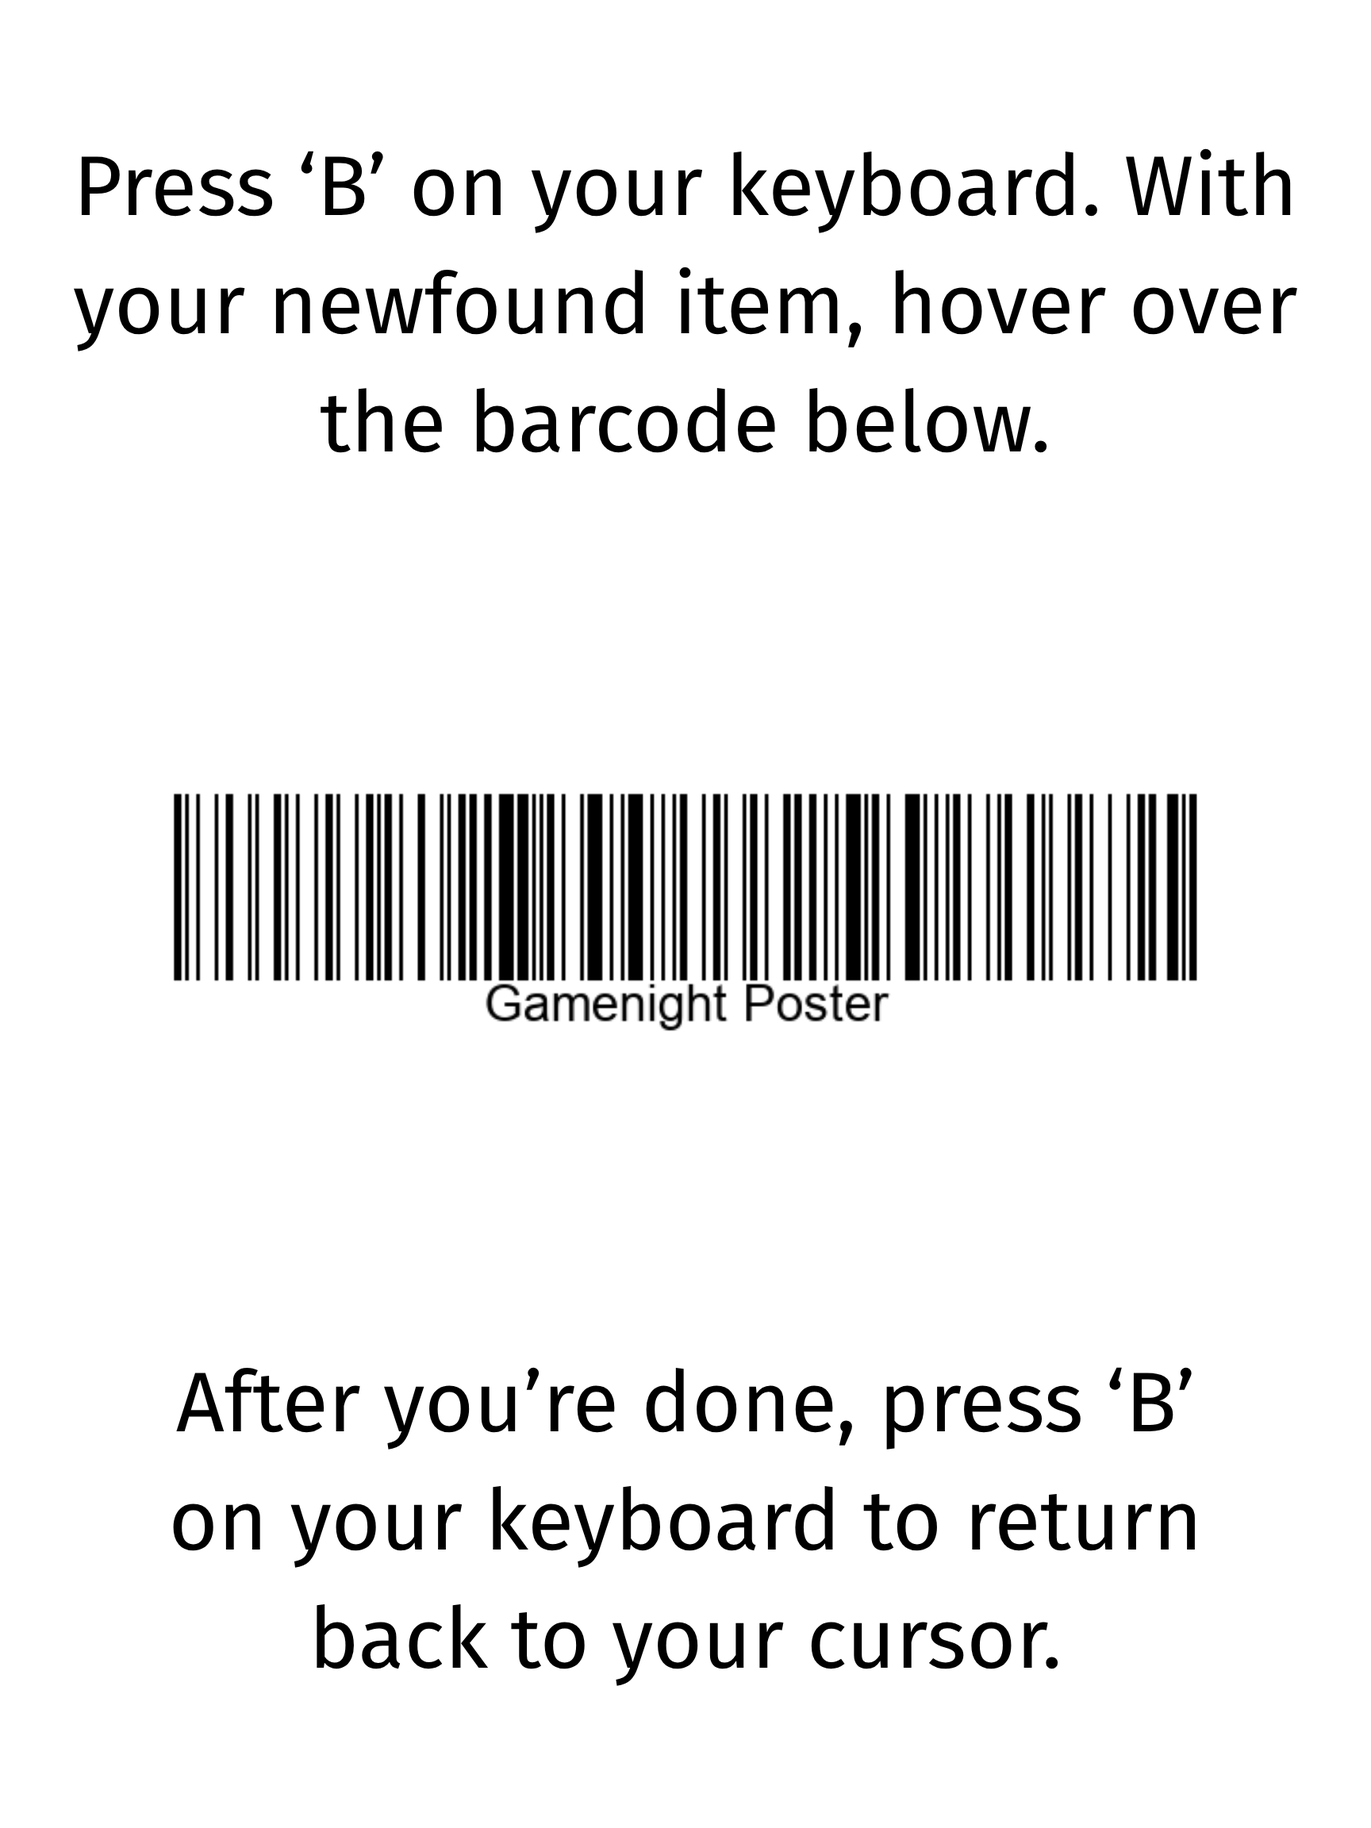
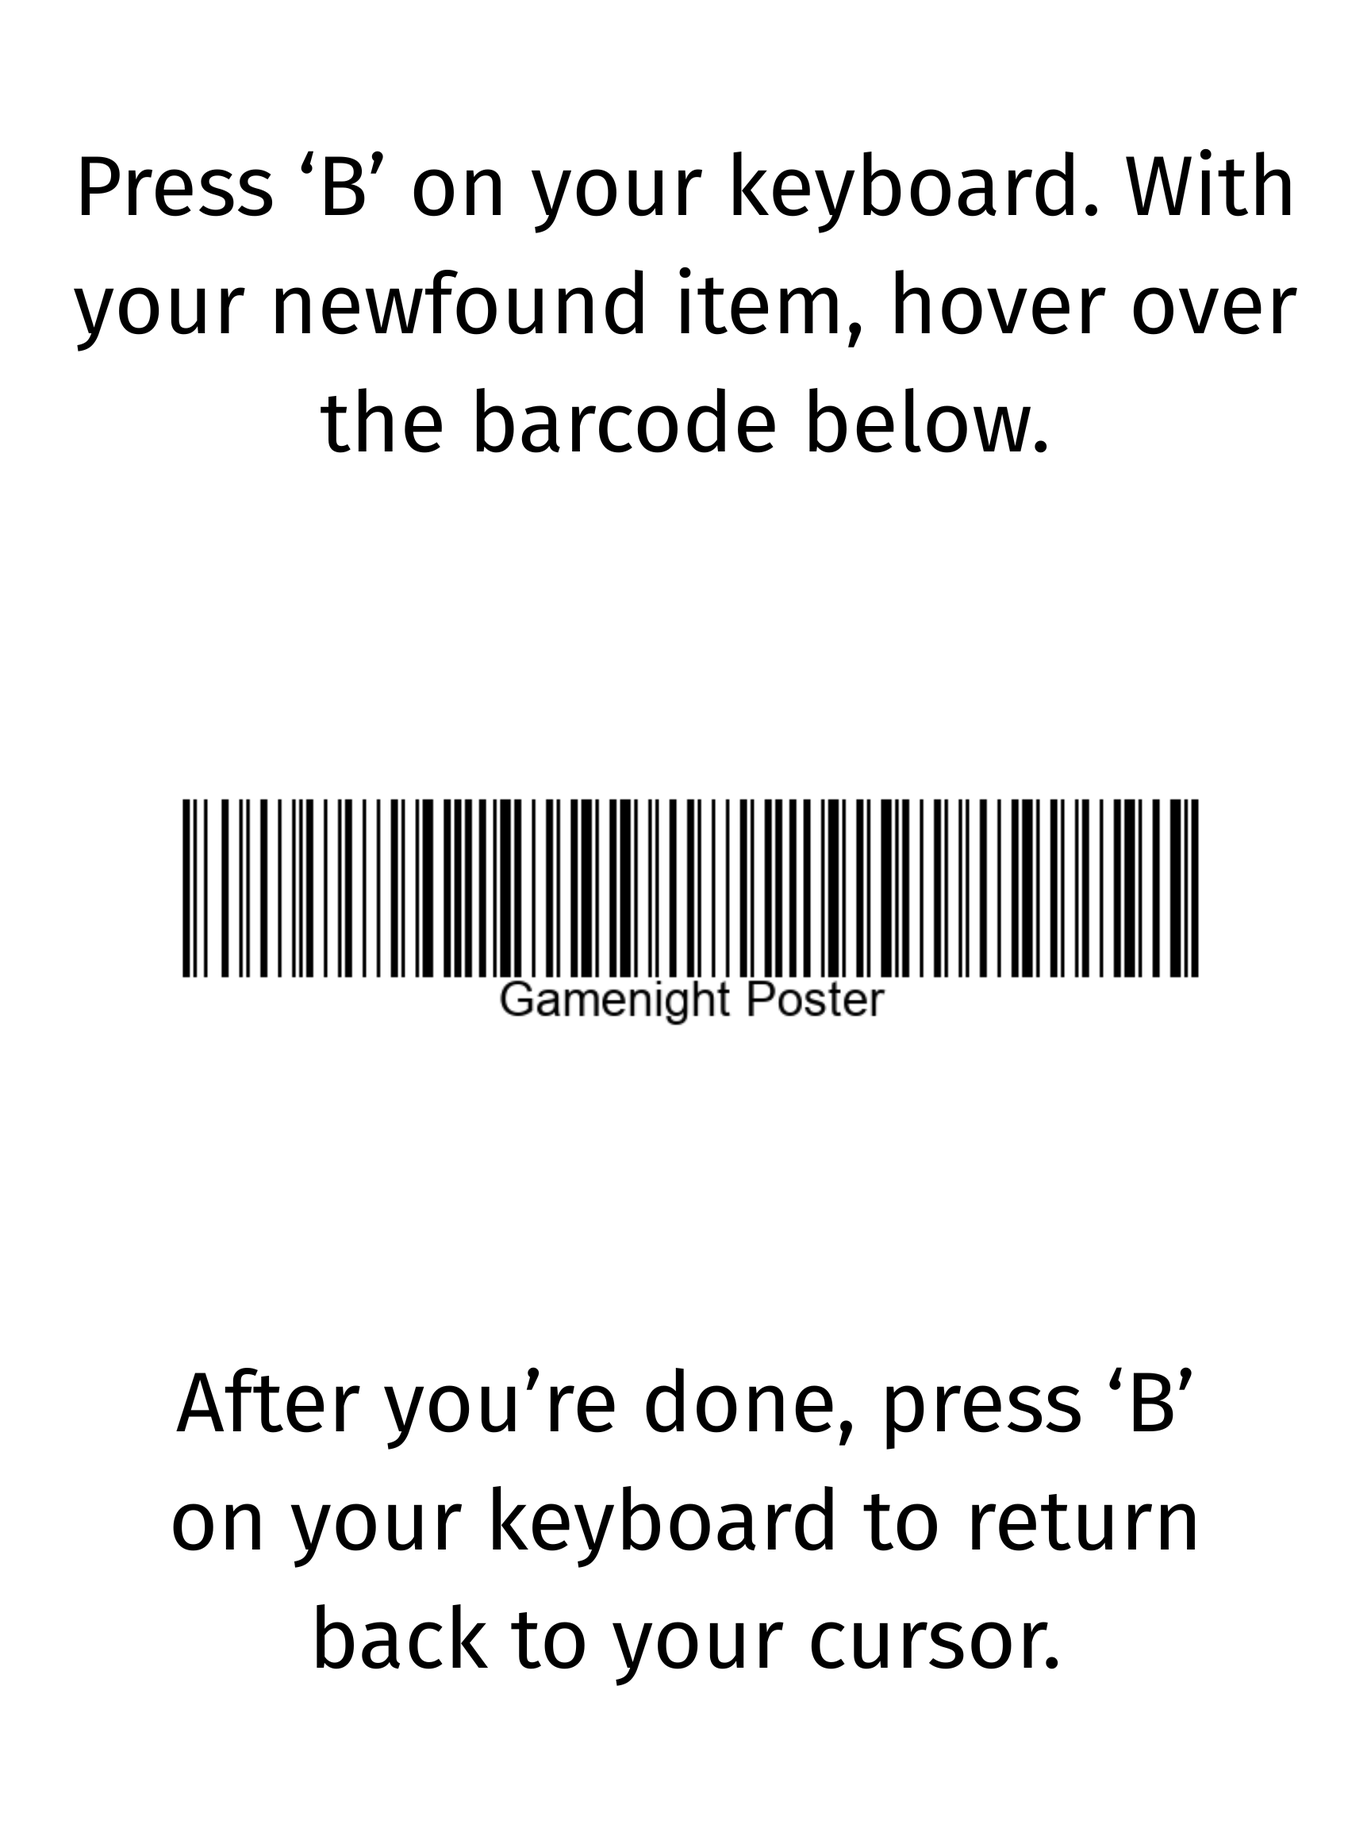
barcodes done

Changed region(s): [[0.125, 0.4375, 0.875, 0.5625]]

diff --git a/EscapeRoom/Game1.cs b/EscapeRoom/Game1.cs
@@ -2,6 +2,7 @@
 using Microsoft.Xna.Framework.Graphics;
 using Microsoft.Xna.Framework.Input;
 using System;
+using System.Diagnostics;
 using System.Runtime.CompilerServices;
 
 namespace EscapeRoom
@@ -41,6 +42,7 @@ namespace EscapeRoom
         Texture2D leftClickTexture, solveTexture;
         Rectangle leftClickRect, solveRect;
         bool backGame;
+        bool gameSpecial; // just to fill the method LOL
 
         // LIGHTS OUT & NONOGRAM
         Texture2D rectTexture, xTexture, backTexture;
@@ -51,7 +53,6 @@ namespace EscapeRoom
         // LIGHTS ON
         Texture2D sunPosterFront, todayPosterFront, alertPosterFront, bdayPosterFront; // front textures
         Texture2D sunPosterBack, todayPosterBack, alertPosterBack, bdayPosterBack; // back textures
-        Texture2D wallpaperTexture; // wallpaper background 
         Texture2D bulbOnTexture, bulbBrokenTexture;
         Rectangle sunRect, todayRect, alertRect, bdayRect, maxPosterRect;
         Rectangle bulbRect, bulbOnRect;
@@ -85,7 +86,7 @@ namespace EscapeRoom
         Rectangle gameBarcode; // tutorial
         Rectangle sunBarcode, todayBarcode, alertBarcode, bdayBarcode; // day posters
         Rectangle moonBarcode, yesterdayBarcode, barcodeBarcode, canadaBarcode; // night posters
-        Rectangle chestBarcode, tomorrowBarcode, scannerBarcode; // special posters
+        Rectangle chestBarcode, tomorrowBarcode, scannerBarcodeFront, scannerBarcodeBack; // special posters
         float barcodeTimer, barcodeStop; // barcodeTimer counts up, barcodeStop stops showing the text after 4s.
         string barcodeText;
         bool showBarcodeText;
@@ -113,7 +114,6 @@ namespace EscapeRoom
 
         Random generator;
         int puzzle; // puzzles
-        bool loDone, noDone;
 
         public Game1()
         {
@@ -134,7 +134,7 @@ namespace EscapeRoom
             screen = Screen.Intro;
             puzzle = 0; // zero puzzle = original window
             generator = new Random();
-            lightsToggle = false;
+            lightsToggle = true;
             tardisActivated = false;
 
             // intro screen
@@ -149,6 +149,7 @@ namespace EscapeRoom
             leftClickRect = new Rectangle(123, 140, 237, 220);
             solveRect = new Rectangle(-11, 140, 230, 220);
             backGame = false;
+            gameSpecial = false;
 
             // LIGHTS OUT
             lightsBack = new Rectangle(225, 70, 300, 300);
@@ -187,11 +188,21 @@ namespace EscapeRoom
             scannerRect = new Rectangle(mouseState.X, mouseState.Y, 45, 45);
 
             // BARCODE
+            gameBarcode = new Rectangle(259, 215, 283, 54);
             sunBarcode = new Rectangle(259, 395, 121, 66);
+            moonBarcode = new Rectangle(305, 399, 191, 47);
+            chestBarcode = new Rectangle(261, 381, 280, 62);
+            todayBarcode = new Rectangle(260, 397, 116, 48);
+            yesterdayBarcode = new Rectangle(264, 356, 273, 74);
+            tomorrowBarcode = new Rectangle(318, 369, 166, 69);
+            alertBarcode = new Rectangle(311, 387, 179, 56);
+            barcodeBarcode = new Rectangle(277, 229, 247, 70);
+            scannerBarcodeFront = new Rectangle(367, 397, 59, 46);
+            scannerBarcodeBack = new Rectangle(262, 370, 277, 68);
+            bdayBarcode = new Rectangle(285, 382, 231, 59);
+            canadaBarcode = new Rectangle(259, 383, 279, 57);
             barcodeTimer = 0f; barcodeStop = 4f;
-            showBarcodeText = false;
-
-
+            //showBarcodeText = false;
 
             // lock SCREEN
             plusBtn1 = new Rectangle(68, 88, 80, 80);
@@ -246,13 +257,7 @@ namespace EscapeRoom
             }
             cellGrid.DebugSolution();
 
-            // boolean variables to decide if something is complete
-            loDone = false; // lights out
-            noDone = false; // nonogram
-
         }
-
-
 
         protected override void LoadContent()
         {
@@ -347,7 +352,14 @@ namespace EscapeRoom
                 Exit();
 
             if (showBarcodeText)
+            {
                 barcodeTimer += (float)gameTime.ElapsedGameTime.TotalSeconds;
+                if (barcodeTimer > barcodeStop)
+                {
+                    barcodeTimer = 0f;
+                    showBarcodeText = false;
+                }
+            }
 
             switch (screen) 
             {
@@ -401,6 +413,7 @@ namespace EscapeRoom
                             ResetMouseCursor(gameRect);
                             BackButton();
                             backGame = BackToggle(maxPosterRect, backGame);
+                            BarcodeScanner(gameBarcode, backGame, gameSpecial);
                             break;
                     }
                     break;
@@ -458,10 +471,18 @@ namespace EscapeRoom
                             break;
                         case 3: // sun poster
                             ResetMouseCursor(sunRect);
-                            BackButton();
+                            if (!screwdriver)
+                                BackButton();
+                            else
+                                BackButton(4);
                             bulbAppear = true;
                             backSun = BackToggle(maxPosterRect, backSun);
-                            BarcodeScanner(sunBarcode, moonBarcode, backSun, sunDisappear);
+                            if (lights)
+                                BarcodeScanner(sunBarcode, backSun, !sunDisappear);
+                            else
+                                BarcodeScanner(moonBarcode, backSun, !sunDisappear);
+                            if (lights || !lights)
+                                BarcodeScanner(chestBarcode, backSun, sunDisappear);
                             if (lights && !backSun && !sunDisappear)
                             {
                                 if (keyboardState.IsKeyDown(Keys.LeftShift) && keyboardState.IsKeyDown(Keys.LeftControl) 
@@ -471,7 +492,7 @@ namespace EscapeRoom
                                         sunDisappear = true;
                                 }
                             }
-                            if (sunDisappear && keyCollected && !screwdriver)
+                            if (sunDisappear && keyCollected && tomorrowToggle && !backSun && !screwdriver)
                             {
                                 if (mouseState.LeftButton == ButtonState.Pressed && prevMouseState.LeftButton == ButtonState.Released)
                                 {
@@ -489,6 +510,13 @@ namespace EscapeRoom
                             Mouse.SetCursor(MouseCursor.Arrow);
                             BackButton();
                             backToday = BackToggle(maxPosterRect, backToday);
+                            if (lights)
+                            {
+                                BarcodeScanner(todayBarcode, backToday, !tomorrowToggle);
+                                BarcodeScanner(tomorrowBarcode, backToday, tomorrowToggle);
+                            }
+                            else
+                                BarcodeScanner(yesterdayBarcode, backToday, !tomorrowToggle);
                             if (lights && !backToday)
                             {
                                 if (keyboardState.IsKeyDown(Keys.LeftControl) && (keyboardState.IsKeyDown(Keys.K) && prevKeyboardState.IsKeyUp(Keys.K)))
@@ -509,6 +537,14 @@ namespace EscapeRoom
                             Mouse.SetCursor(MouseCursor.Arrow);
                             BackButton();
                             backAlert = BackToggle(maxPosterRect, backAlert);
+                            if (lights)
+                                BarcodeScanner(alertBarcode, backAlert, !warningClick);
+                            else
+                            {
+                                BarcodeScanner(barcodeBarcode, !backAlert, !warningClick);
+                                BarcodeScanner(scannerBarcodeFront, !backAlert, warningClick);
+                                BarcodeScanner(scannerBarcodeBack, backAlert, warningClick);
+                            }
                             if (!lights && !backAlert && !warningClick)
                             {
                                 if (mouseState.LeftButton == ButtonState.Pressed && prevMouseState.LeftButton == ButtonState.Released)
@@ -539,11 +575,15 @@ namespace EscapeRoom
                             Mouse.SetCursor(MouseCursor.Arrow);
                             BackButton();
                             backBday = BackToggle(maxPosterRect, backBday);
-                            if (buttonClicked && !backBday && lights)
+                            if (lights)
+                                BarcodeScanner(bdayBarcode, backBday, !buttonClicked);
+                            else
+                                BarcodeScanner(canadaBarcode, backBday, !buttonClicked);
+                            if (buttonClicked && sunDisappear && !backBday && lights)
                             {
                                 SetMouseCursor(lockBtn);
                                 ResetMouseCursor(lockBtn);
-                                if (mouseState.LeftButton == ButtonState.Pressed && mouseState.RightButton == ButtonState.Released)
+                                if (mouseState.LeftButton == ButtonState.Pressed && prevMouseState.LeftButton == ButtonState.Released)
                                 {
                                     if (lockBtn.Contains(mouseState.Position))
                                         puzzle = 7;
@@ -552,7 +592,7 @@ namespace EscapeRoom
                             break;
                         case 7: // lock
                             Mouse.SetCursor(MouseCursor.Arrow);
-                            BackButton(4);
+                            BackButton(6);
                             if (!code)
                             {
                                 // subtract buttons (individual methods not working)
@@ -631,6 +671,7 @@ namespace EscapeRoom
                             DrawPoster(backGame, gamePosterFront, gamePosterBack, maxPosterRect);
                             if (!backGame)
                                 _spriteBatch.Draw(solveTexture, solveRect, Color.White);
+                            DrawBarcodeText("[HIDDEN MESSAGE REVEALED]", new Vector2(246, 166), backGame);
                             _spriteBatch.Draw(backTexture, backBtn, Color.White);
                             break;
                     }
@@ -713,29 +754,56 @@ namespace EscapeRoom
                             break;
                         case 3: // sun poster
                             if (!sunDisappear)
+                            {
                                 LightsToggle(backSun, sunPosterFront, sunPosterBack, moonPosterFront, moonPosterBack, maxPosterRect);
+                                if (lights)
+                                    DrawBarcodeText("[noburger]", new Vector2(224, 341), backSun); // sun poster
+                                else
+                                    DrawBarcodeText("[No Sun = No Moon]", new Vector2(224, 341), backSun); // moon poster
+                            }
                             else
                             {
                                 LightsToggle(backSun, chestPosterFront, chestPosterBack, chestPosterFront, chestPosterBack, maxPosterRect);
+                                if (lights || !lights)
+                                    DrawBarcodeText("[Shift your keyboard]", new Vector2(257, 341), backSun); // chest poster
                                 if (showScrewdriver)
                                     _spriteBatch.Draw(screwdriverTexture, screwdriverRect, Color.White);
                             }
-                            DrawBarcodeText("[noburger]", "[No Sun = No Moon]", new Vector2(224, 341), backSun, sunDisappear);
                             _spriteBatch.Draw(backTexture, backBtn, Color.White);
                             break;
                         case 4: // today poster
                             if (!tomorrowToggle)
+                            {
                                 LightsToggle(backToday, todayPosterFront, todayPosterBack, yesterdayPosterFront, yesterdayPosterBack, maxPosterRect);
+                                if (lights)
+                                    DrawBarcodeText("[Vigenere]", new Vector2(247, 294), backToday); // today poster
+                            }
                             else
+                            {
                                 LightsToggle(backToday, tomorrowPosterFront, tomorrowPosterBack, yesterdayPosterFront, yesterdayPosterBack, maxPosterRect);
+                                if (lights)
+                                    DrawBarcodeText("[Dr. Who?]", new Vector2(247, 294), backToday); // tomorrow poster
+                            }
+                            if (!lights)
+                                DrawBarcodeText("[Musical Artist]", new Vector2(247, 294), backToday); // yesterday poster
                             _spriteBatch.Draw(backTexture, backBtn, Color.White);
                             break;
                         case 5: // alert poster
                             if (!warningClick)
+                            {
                                 LightsToggle(backAlert, alertPosterFront, alertPosterBack, barcodePosterFront, barcodePosterBack, maxPosterRect);
+                                if (lights && backAlert)
+                                    DrawBarcodeText("[Two Commands]", new Vector2(278, 340), backAlert); // alert poster
+                                if (!lights && !backAlert)
+                                    DrawBarcodeText("[What did I just say]", new Vector2(277, 184), !backAlert); // barcode poster
+                            }
                             else
                             {
                                 LightsToggle(backAlert, alertPosterFront, alertPosterBack, scannerPosterFront, scannerPosterBack, maxPosterRect);
+                                if (!lights && !backAlert)
+                                    DrawBarcodeText("[hi]", new Vector2(437, 407), !backAlert); // scanner poster front
+                                if (!lights && backAlert)
+                                    DrawBarcodeText("[Click it]", new Vector2(279, 461), backAlert); // scanner poster back
                                 if (backAlert && !buttonClicked)
                                 {
                                     _spriteBatch.Draw(scannerBtnTexture, scannerBtn, Color.White);
@@ -746,7 +814,13 @@ namespace EscapeRoom
                             break;
                         case 6: // bday poster
                             if (!lockPoster)
+                            {
                                 LightsToggle(backBday, bdayPosterFront, bdayPosterBack, canadaPosterFront, canadaPosterBack, maxPosterRect);
+                                if (lights)
+                                    DrawBarcodeText("[Button. Canada.]", new Vector2(247, 294), backBday); // bday poster
+                                else
+                                    DrawBarcodeText("[Stay on this screen]", new Vector2(247, 294), backBday); // canada poster
+                            }
                             else
                                 LightsToggle(backBday, lockPosterFront, lockPosterBack, canadaPosterFront, canadaPosterBack, maxPosterRect);
                             _spriteBatch.Draw(backTexture, backBtn, Color.White);
@@ -794,7 +868,10 @@ namespace EscapeRoom
             if (mouseState.LeftButton == ButtonState.Pressed && prevMouseState.LeftButton == ButtonState.Released)
             {
                 if (backBtn.Contains(mouseState.Position))
+                {
                     puzzle = 0;
+                    showBarcodeText = false;
+                }
             }
         }
 
@@ -972,56 +1049,6 @@ namespace EscapeRoom
                             showBarcodeText = false;
                         }
                     }
-        }
-
-        public void BarcodeScanner(Rectangle dayBarcode, Rectangle nightBarcode, bool backToggle, bool specialPoster)
-        {
-            if (scannerEquipped && backToggle && !specialPoster)
-                if (mouseState.LeftButton == ButtonState.Pressed && prevMouseState.LeftButton == ButtonState.Released)
-                {
-                    if (lights)
-                    {
-                        if (dayBarcode.Contains(mouseState.Position))
-                        {
-                            showBarcodeText = true;
-                            if ((barcodeTimer > barcodeStop) || !backToggle)
-                            {
-                                barcodeTimer = 0f;
-                                showBarcodeText = false;
-                            }
-                        }
-                    }
-                    else
-                    {
-                        if (nightBarcode.Contains(mouseState.Position))
-                        {
-                            showBarcodeText = true;
-                            if ((barcodeTimer > barcodeStop) || !backToggle)
-                            {
-                                barcodeTimer = 0f;
-                                showBarcodeText = false;
-                            }
-                        }
-                    }
-                     
-                }
-        }
-
-        public void DrawBarcodeText(string dayBarcodeOutput, string nightBarcodeOutput, Vector2 textLocation, bool backToggle, bool specialToggle)
-        {
-            if (showBarcodeText && backToggle && !specialToggle)
-            {
-                if (lights)
-                {
-                    barcodeText = dayBarcodeOutput;
-                    _spriteBatch.DrawString(barcodeFont, dayBarcodeOutput, textLocation, Color.Red);
-                }
-                else
-                {
-                    barcodeText = nightBarcodeOutput;
-                    _spriteBatch.DrawString(barcodeFont, nightBarcodeOutput, textLocation, Color.Red);
-                }
-            }
         }
 
         public void DrawBarcodeText(string specialBarcodeOutput, Vector2 textLocation, bool backToggle)

diff --git a/EscapeRoom/CellGrid.cs b/EscapeRoom/CellGrid.cs
@@ -19,8 +19,6 @@ namespace EscapeRoom
         private Texture2D _defaultTexture;
         private Color _color;
         private Point _location;
-        private string _hHint;
-        private string _vHint;
 
         //Cell[,] solution, 
         public CellGrid(Texture2D crossTexture, Texture2D defaultTexture, Point location, Color color)

diff --git a/EscapeRoom/LightGrid.cs b/EscapeRoom/LightGrid.cs
@@ -28,7 +28,6 @@ namespace EscapeRoom
                 for (int x = 0; x < 5; x++)
                 {
                     _lightBoard[x, y] = new Light(_texture, new Rectangle(x * 60 + _location.X, y * 60 + _location.Y, 50, 50), _onColor);
-                    
                 }
             _puzzle = puzzle;
             switch (puzzle)
